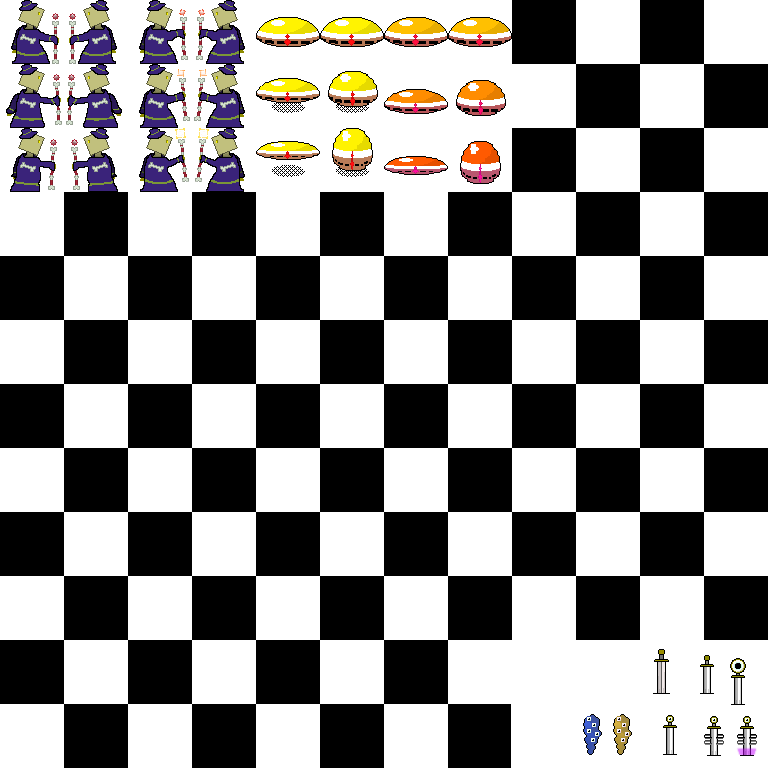
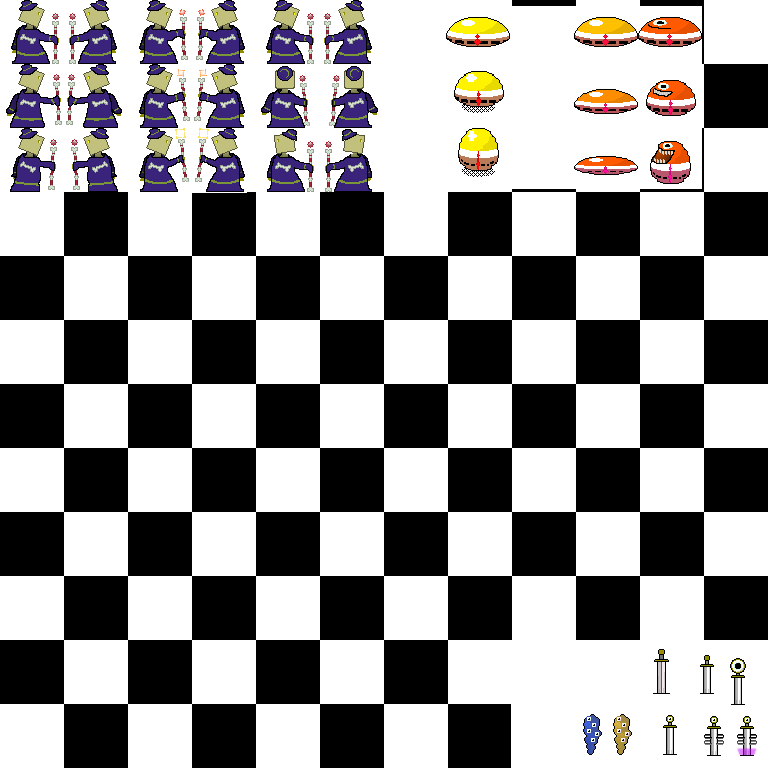
Mini map and scrolling

Changed region(s): [[0.3125, 0.0, 0.9375, 0.25]]

diff --git a/SharpDungeon/Game/World/World.cs b/SharpDungeon/Game/World/World.cs
@@ -1,4 +1,5 @@
 using SharpDungeon.Game.Entities;
+using SharpDungeon.Game.Graphics;
 using SharpDungeon.Game.Tiles;
 using System;
 using System.Collections.Generic;
@@ -19,6 +20,7 @@ namespace SharpDungeon.Game.World {
         private int spawnX, spawnY;
         private int[,] tiles;
 
+        List<Leaf> leafs = new List<Leaf>();
         Random rnd;
 
         public World(Handler handler) {
@@ -32,25 +34,24 @@ namespace SharpDungeon.Game.World {
             tiles = new int[width, height];
             rnd = new Random();
 
-            //for (int x = 0; x < width; x++) {
-            //    for (int y = 0; y < height; y++) {
-            //        if (x == 0)
-            //            tiles[x, y] = Tile.stoneWall.getId();
-            //        else if (y == 0)
-            //            tiles[x, y] = Tile.stoneWall.getId();
-            //        else if (x == width - 1)
-            //            tiles[x, y] = Tile.stoneWall.getId();
-            //        else if (y == height - 1)
-            //            tiles[x, y] = Tile.stoneWall.getId();
-            //        else
-            //            tiles[x, y] = Tile.stone.getId();
-            //    }
-            //}
+            for (int x = 0; x < width; x++) {
+                for (int y = 0; y < height; y++) {
+                    if (x == 0)
+                        tiles[x, y] = Tile.stoneWall.getId();
+                    else if (y == 0)
+                        tiles[x, y] = Tile.stoneWall.getId();
+                    else if (x == width - 1)
+                        tiles[x, y] = Tile.stoneWall.getId();
+                    else if (y == height - 1)
+                        tiles[x, y] = Tile.stoneWall.getId();
+                    else
+                        tiles[x, y] = Tile.stone.getId();
+                }
+            }
 
-            int maxSize = 2000;
-            List<Leaf> leafs = new List<Leaf>();
+            int maxSize = width;
 
-            Leaf root = new Leaf(0, 0, width, height);
+            Leaf root = new Leaf(0, 0, 30, 30);
             leafs.Add(root);
 
             bool didSplit = true;
@@ -84,18 +85,18 @@ namespace SharpDungeon.Game.World {
 
             foreach (Leaf leaf in leafs) {
                 //render rooms
-                for (int x = leaf.getRoom().X; x < leaf.getRoom().Width; x++) {
-                    for (int y = leaf.getRoom().Y; y < leaf.getRoom().Height; y++) {
-                        tiles[x, y] = Tile.stone.getId();
-                    }
-                }
+                for(int j = leaf.getRoom().Y; j< leaf.getRoom().Height; j++)
+                    for(int i=leaf.getRoom().X; i< leaf.getRoom().Width; i++)
+                        tiles[j, i] = Tile.stone.getId();
 
-                //for (int x = leaf.ha.X; x < leaf.getRoom().Width; x++) {
-                //    for (int y = leaf.getRoom().Y; y < leaf.getRoom().Height; y++) {
-                //        tiles[x, y] = Tile.stone.getId();
-                //    }
-                //}
+                if (leaf.halls != null)
+                    foreach (Rectangle hall in leaf.halls) {
+                        //for (int j = hall.Y; j < hall.Height; j++)
+                        //    for (int i = hall.X; i < hall.Width; i++)
+                        //        tiles[j, i] = Tile.stone.getId();
+                    }
             }
+
 
             entityManager = new EntityManager(handler, new Player(handler, spawnX, spawnY));
 
@@ -121,21 +122,30 @@ namespace SharpDungeon.Game.World {
                     //Тик объявлен только для видимых тайлов
                     getTile(x, y).tick(handler, x, y);
                     getTile(x, y).render(g, (int)(x * Tile.tileWidth - handler.gameCamera.xOffset), (int)(y * Tile.tileHeight - handler.gameCamera.yOffset));
-
                 }
             }
 
 
-            for (int i = 1; i < 50; i++) {
-                for (int j = 1; i < 50; i++) {
-                    getTile(i, j).tick(handler, i, j);
-                    g.DrawImage(getTile(i, j).currentTex, i * 6, j * 6, 6, 6);
-                }
-            }
+
+            
             ////Выделение
             //selection.render(g);
             ////Предметы
             //itemManager.render(g);
+
+            foreach (Leaf leaf in leafs) {
+                //render rooms
+                for (int j = leaf.getRoom().Y; j < leaf.getRoom().Height; j++)
+                    for (int i = leaf.getRoom().X; i < leaf.getRoom().Width; i++)
+                        g.FillRectangle(Brushes.Red, new Rectangle(j*12,i*12,12,12));
+                g.FillRectangle(Brushes.Blue, leaf.getRoom());
+                if (leaf.halls != null)
+                    foreach (Rectangle hall in leaf.halls) {
+                        //for (int j = hall.Y; j < hall.Height; j++)
+                        //    for (int i = hall.X; i < hall.Width; i++)
+                        //        tiles[j, i] = Tile.stone.getId();
+                    }
+            }
 
             //Сущности
             entityManager.render(g);

diff --git a/SharpDungeon/Game/Entities/Player.cs b/SharpDungeon/Game/Entities/Player.cs
@@ -11,6 +11,9 @@ using System.Windows.Forms;
 
 namespace SharpDungeon.Game.Entities {
     public class Player : Entity {
+        
+        Animation currentAnimation;
+        Bitmap stayTex;
 
         Animation idle;
 
@@ -22,8 +25,13 @@ namespace SharpDungeon.Game.Entities {
         WaveAlg path;
         Point thisPoint, nextPoint, i, j;
 
+        Random rnd = new Random();
+        Point mdPos, pos;
+
         public Player(Handler handler, int worldX, int worldY) : base(handler, worldX, worldY, defaultWidth, defaultHeight) {
-            idle = new Animation(100, Assets.player);
+            stayTex = Assets.playerIdle[0];
+            idle = new Animation(540, Assets.playerIdle);
+            currentAnimation = idle;
         }
        
         public override void die() {
@@ -31,7 +39,17 @@ namespace SharpDungeon.Game.Entities {
         }
 
         public override void tick() {
-            idle.tick();
+
+            if (currentAnimation != null)
+                currentAnimation.tick();
+
+            if (handler.mouseManager.mouseMid) {
+                mdPos = new Point(handler.mouseManager.mouseX - pos.X + (int)handler.gameCamera.xOffset,
+                                  handler.mouseManager.mouseY - pos.Y + (int)handler.gameCamera.yOffset);
+
+                handler.gameCamera.xOffset += -mdPos.X + handler.mouseManager.mouseX;
+                handler.gameCamera.yOffset += -mdPos.Y + handler.mouseManager.mouseY ;
+            }
 
             if (handler.keyManager.isDown(Keys.Right))
                 handler.gameCamera.xOffset += 10;
@@ -53,6 +71,7 @@ namespace SharpDungeon.Game.Entities {
                                       handler.world.toWorldY(handler.mouseManager.mouseY));
 
             if (handler.keyManager.isPressed(Keys.T)) {
+
                 path = new WaveAlg(handler.world.width, handler.world.height);
 
                 for(int j=0; j< handler.world.height; j++)
@@ -70,6 +89,14 @@ namespace SharpDungeon.Game.Entities {
             }
 
             if (direction != null) {
+                if ((int)x / Tile.tileWidth > handler.world.toWorldX(handler.mouseManager.mouseX)) {
+                    currentAnimation = new Animation(100, Assets.playerWalkLeft);
+                    stayTex = Assets.playerWalkLeft[0];
+                } else {
+                    currentAnimation = new Animation(100, Assets.playerWalkRight);
+                    stayTex = Assets.playerWalkRight[0];
+                }
+
                 if (directionStep < direction.ToArray().Length-1) {
 
                     x = direction[directionStep].X*Tile.tileWidth;
@@ -78,12 +105,16 @@ namespace SharpDungeon.Game.Entities {
                 } else {
                     directionStep = 0;
                     direction = null;
+                    currentAnimation = idle;
                 }
             }
-                
+                    
+            }
+
+
             
 
-        }
+        
          
         //private List<Point> buildDirection(int startX, int startY, int targetX, int targetY) {
 
@@ -132,9 +163,19 @@ namespace SharpDungeon.Game.Entities {
         //}
 
         public override void render(System.Drawing.Graphics g) {
-            g.DrawImage(idle.getCurrentFrame(), (int) (x - handler.gameCamera.xOffset), (int) (y - handler.gameCamera.yOffset), width, height );
+            if (currentAnimation != null)
+                g.DrawImage(currentAnimation.getCurrentFrame(), (int) (x - handler.gameCamera.xOffset), (int) (y - handler.gameCamera.yOffset), width, height);
+            else
+                g.DrawImage(stayTex, (int)(x - handler.gameCamera.xOffset), (int)(y - handler.gameCamera.yOffset), width, height);
 
             renderSelection(g);
+
+            g.FillRectangle(Brushes.White, 15, 15, handler.world.width * 8 + 10, handler.world.height * 8 + 10);
+            for (int j = 0; j < handler.world.height; j++)
+                for (int i = 0; i < handler.world.width; i++)
+                    g.FillRectangle(handler.world.getTile(j, i).isSolid() ? Assets.minMapSolid : handler.world.getTile(j, i) != Tile.air ? Assets.minMapBack : Brushes.Black, 20 + j * 8, 20 + i * 8, 8, 8);
+
+            //TextRenderer.DrawText(g, handler.mouseManager.moving.ToString(), Assets.gameFont, new Point(0, 0), Color.Red);
         }
 
         private void renderSelection(System.Drawing.Graphics g) {
@@ -154,7 +195,7 @@ namespace SharpDungeon.Game.Entities {
                                           (offsY + ((Tile.tileHeight - offsY + handler.mouseManager.mouseY) / Tile.tileHeight) * Tile.tileHeight) - Tile.tileHeight,
                                           Tile.tileWidth,
                                           Tile.tileHeight);
-
+            
         }
 
         //public bool collisionWithTile(int wo) {

diff --git a/SharpDungeon/Game/Graphics/Assets.cs b/SharpDungeon/Game/Graphics/Assets.cs
@@ -26,10 +26,17 @@ namespace SharpDungeon.Game.Graphics {
 
         //Player
 
-        public static Bitmap[] player;
+        public static Bitmap[] playerIdle, playerWalkLeft, playerWalkRight, playerAttackLeft, playerAttackRight;
+        public static Bitmap[] slimeIdle, slimeWalk, slimeAttack;
+
         public static Bitmap selection;
 
         //UI
+
+        //Brushes
+
+        public static Brush minMapSolid = new SolidBrush(Color.FromArgb(110, 121, 145));
+        public static Brush minMapBack = new SolidBrush(Color.FromArgb(175, 175, 175));
 
         //Load textures
 
@@ -44,7 +51,7 @@ namespace SharpDungeon.Game.Graphics {
                 f.AddFontFile("../../Assets/emulogic.ttf");
                 themeFont = new Font(f.Families[0], 10);
 
-                air = tileSheet.crop(width * 4, height * 2, width, height);
+                air = tileSheet.crop(width * 5, height * 2, width, height);
                 stone = tileSheet.crop(width * 3, height * 2, width, height);
 
                 stoneWall = new Bitmap[24];
@@ -78,10 +85,33 @@ namespace SharpDungeon.Game.Graphics {
 
                 logo = tileSheet.crop(width*9, height*11, width*3, height);
 
-                player = new Bitmap[3];
-                player[0] = entitiesSheet.crop(width*5, 0, width, height);
-                player[1] = entitiesSheet.crop(width*5, height, width, height);
-                player[2] = entitiesSheet.crop(width*5, height*2, width, height);
+                playerWalkRight = new Bitmap[3];
+                playerWalkRight[0] = entitiesSheet.crop(0, 0, width, height);
+                playerWalkRight[1] = entitiesSheet.crop(0, height, width, height);
+                playerWalkRight[2] = entitiesSheet.crop(0, height * 2, width, height);
+
+                playerWalkLeft = new Bitmap[3];
+                playerWalkLeft[0] = entitiesSheet.crop(width * 1, 0, width, height);
+                playerWalkLeft[1] = entitiesSheet.crop(width * 1, height, width, height);
+                playerWalkLeft[2] = entitiesSheet.crop(width * 1, height * 2, width, height);
+
+                playerAttackRight = new Bitmap[3];
+                playerAttackRight[0] = entitiesSheet.crop(width * 2, 0, width, height);
+                playerAttackRight[1] = entitiesSheet.crop(width * 2, height, width, height);
+                playerAttackRight[2] = entitiesSheet.crop(width * 2, height * 2, width, height);
+
+                playerAttackLeft = new Bitmap[3];
+                playerAttackLeft[0] = entitiesSheet.crop(width * 3, 0, width, height);
+                playerAttackLeft[1] = entitiesSheet.crop(width * 3, height, width, height);
+                playerAttackLeft[2] = entitiesSheet.crop(width * 3, height * 2, width, height);
+
+                playerIdle = new Bitmap[6];
+                playerIdle[0] = entitiesSheet.crop(width * 4, 0, width, height);
+                playerIdle[1] = entitiesSheet.crop(width * 4, height, width, height);
+                playerIdle[2] = entitiesSheet.crop(width * 4, height * 2, width, height);
+                playerIdle[3] = entitiesSheet.crop(width * 5, 0, width, height);
+                playerIdle[4] = entitiesSheet.crop(width * 5, height, width, height);
+                playerIdle[5] = entitiesSheet.crop(width * 5, height * 2, width, height);
 
                 selection = uiSheet.crop(0, 0, width, height);
 

diff --git a/SharpDungeon/Game/Input/MouseManager.cs b/SharpDungeon/Game/Input/MouseManager.cs
@@ -1,5 +1,6 @@
 using System;
 using System.Collections.Generic;
+using System.Drawing;
 using System.Linq;
 using System.Text;
 using System.Threading.Tasks;
@@ -10,26 +11,35 @@ namespace SharpDungeon.Game.Input {
 
         public bool leftPressed { get; set; }
         public bool rightPressed { get; set; }
+        public bool mouseMid { get; set; }
 
         public int mouseX { get; set; }
         public int mouseY { get; set; }
-        public int delta { get; set; }
+
+        public int wheel { get; set; }
 
         public void mouseDown(object sender, MouseEventArgs e) {
             if (e.Button == MouseButtons.Left)
                 leftPressed = true;
             else if (e.Button == MouseButtons.Right)
                 rightPressed = true;
+            else if (e.Button == MouseButtons.Middle)
+                mouseMid = true;
         }
         public void mouseUp(object sender, MouseEventArgs e) {
             if (e.Button == MouseButtons.Left)
                 leftPressed = false;
             else if (e.Button == MouseButtons.Right)
                 rightPressed = false;
+            else if (e.Button == MouseButtons.Middle)
+                mouseMid = false;
         }
         public void mouseMove(object sender, MouseEventArgs e) {
             mouseX = e.X;
             mouseY = e.Y;
+        }
+        public void mouseWheel(object sender, MouseEventArgs e) {
+            wheel += e.Delta / 120;
         }
 
         public void mouseEnter(object sender, EventArgs e) {}

diff --git a/SharpDungeon/Game/World/Leaf.cs b/SharpDungeon/Game/World/Leaf.cs
@@ -9,7 +9,7 @@ using System.Threading.Tasks;
 namespace SharpDungeon.Game.World {
     public class Leaf {
 
-        public static readonly int minSize = 6;
+        public static readonly int minSize = 5;
 
         public int x { get; set; }
         public int y { get; set; }
@@ -117,10 +117,10 @@ namespace SharpDungeon.Game.World {
         public void createHall(Rectangle l, Rectangle r) {
             halls = new List<Rectangle>();
 
-            Point p1 = new Point(rnd.Next(l.Left, l.Right), rnd.Next(l.Top, l.Bottom));
-            Point p2 = new Point(rnd.Next(r.Left, r.Right), rnd.Next(r.Top, r.Bottom));
-            //Point p1 = new Point(rnd.Next(l.Left + 1, l.Right - 2), rnd.Next(l.Top + 1, l.Bottom - 2));
-            //Point p2 = new Point(rnd.Next(r.Left + 1, r.Right - 2), rnd.Next(r.Top + 1, r.Bottom - 2));
+            //Point p1 = new Point(rnd.Next(l.Left, l.Right), rnd.Next(l.Top, l.Bottom));
+            //Point p2 = new Point(rnd.Next(r.Left, r.Right), rnd.Next(r.Top, r.Bottom));
+            Point p1 = new Point(rnd.Next(l.Left + 1, l.Right - 2), rnd.Next(l.Top + 1, l.Bottom - 2));
+            Point p2 = new Point(rnd.Next(r.Left + 1, r.Right - 2), rnd.Next(r.Top + 1, r.Bottom - 2));
 
             int w = p2.X - p1.X;
             int h = p2.Y - p1.Y;

diff --git a/SharpDungeon/Game/Display/Display.cs b/SharpDungeon/Game/Display/Display.cs
@@ -30,6 +30,7 @@ namespace SharpDungeon.Game.Display {
             MouseDown += new System.Windows.Forms.MouseEventHandler(game.mouseManager.mouseDown);
             MouseMove += new System.Windows.Forms.MouseEventHandler(game.mouseManager.mouseMove);
             MouseUp += new System.Windows.Forms.MouseEventHandler(game.mouseManager.mouseUp);
+            MouseWheel += new MouseEventHandler(game.mouseManager.mouseWheel);
 
             MouseEnter += new System.EventHandler(game.mouseManager.mouseEnter);
             MouseLeave += new System.EventHandler(game.mouseManager.mouseLeave);

diff --git a/SharpDungeon/Game/Display/Display.Designer.cs b/SharpDungeon/Game/Display/Display.Designer.cs
@@ -33,6 +33,7 @@
             this.ClientSize = new System.Drawing.Size(784, 562);
             this.Name = "Display";
             this.Text = "Display";
+            this.WindowState = System.Windows.Forms.FormWindowState.Maximized;
             this.ResumeLayout(false);
 
         }
